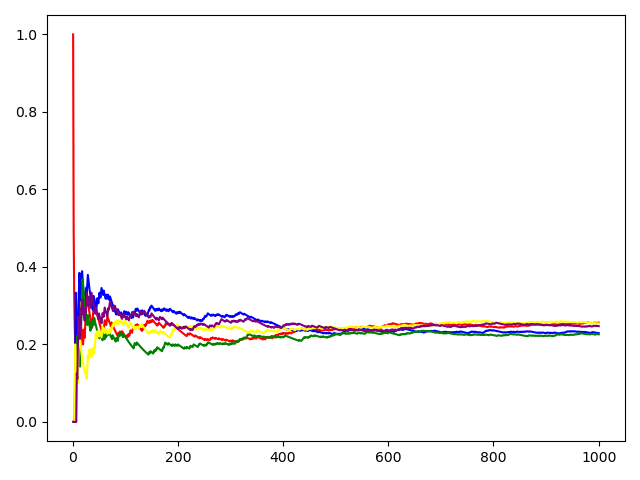
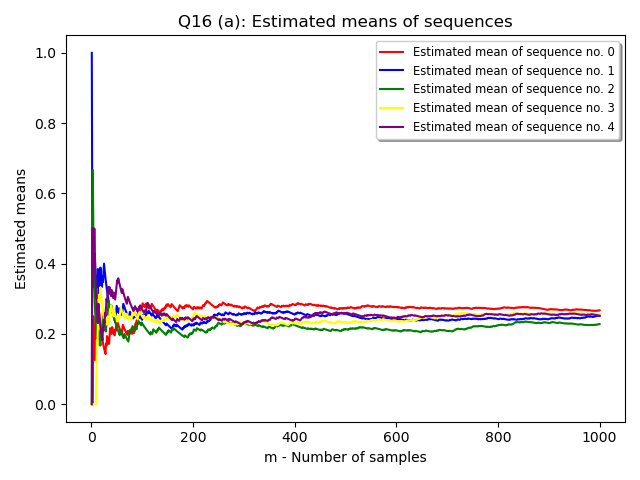
Submitted

diff --git a/3d_gausian.py b/3d_gausian.py
@@ -1,6 +1,5 @@
 import numpy as np
 import matplotlib.pyplot as plt
-from mpl_toolkits.mplot3d import Axes3D
 from scipy.linalg import qr
 
 mean = [0, 0, 0]
@@ -86,7 +85,7 @@ def q15():
 
 def q16():
     data = np.random.binomial(1, 0.25, (100000, 1000))
-    epsilon = [0.5, 0.25, 0.1, 0.01, 0.001]
+    epsilon = [0.25]
     sub_question_a(data)
     sub_questions_b_c(data, epsilon)
 
@@ -97,8 +96,14 @@ def sub_question_a(data):
     for i in range(5):
         first_five_estimated_means.append(np.cumsum(data[i]) / np.arange(1, 1001))
     for i in range(5):
-        plt.plot(np.arange(1, 1001), first_five_estimated_means[i], color=colors[i])
-    plt.title('Q16 (a): Estimated means')
+        plt.plot(np.arange(1, 1001),
+                 first_five_estimated_means[i],
+                 color=colors[i],
+                 label=f'Estimated mean of sequence no. {i}')
+    plt.legend(loc='best', shadow=True, fontsize='small')
+    plt.xlabel('m - Number of samples')
+    plt.ylabel('Estimated means')
+    plt.title('Q16 (a): Estimated means of sequences')
     plt.show()
 
 
@@ -114,12 +119,13 @@ def sub_questions_b_c(data, epsilon):
                  (np.repeat(2, 1000) * np.exp(np.cumsum(np.repeat(-2 * eps ** 2, 1000)))).clip(max=1),
                  color='blue',
                  label=f'Hoeffding bound')
-        percentage = [len(list(filter(lambda x: abs(x - 0.25) >= eps, transposed_means[j]))) / len(means) for j in range(1000)]
+        percentage = [len(list(filter(lambda x: abs(x - 0.25) >= eps,
+                                      transposed_means[j]))) / len(means) for j in range(1000)]
         plt.plot(np.arange(1, 1001), percentage, color='green', label='Percentage of samples satisfying given event')
         plt.title(f'Q16 (b, c): Bounds for ${{\\varepsilon}}$ = {eps}')
         plt.xlabel('m - Number of samples')
         plt.ylabel('Bounds')
-        legend = plt.legend(loc='best', shadow=True, fontsize='small')
+        plt.legend(loc='best', shadow=True, fontsize='small')
         plt.show()
 
 
